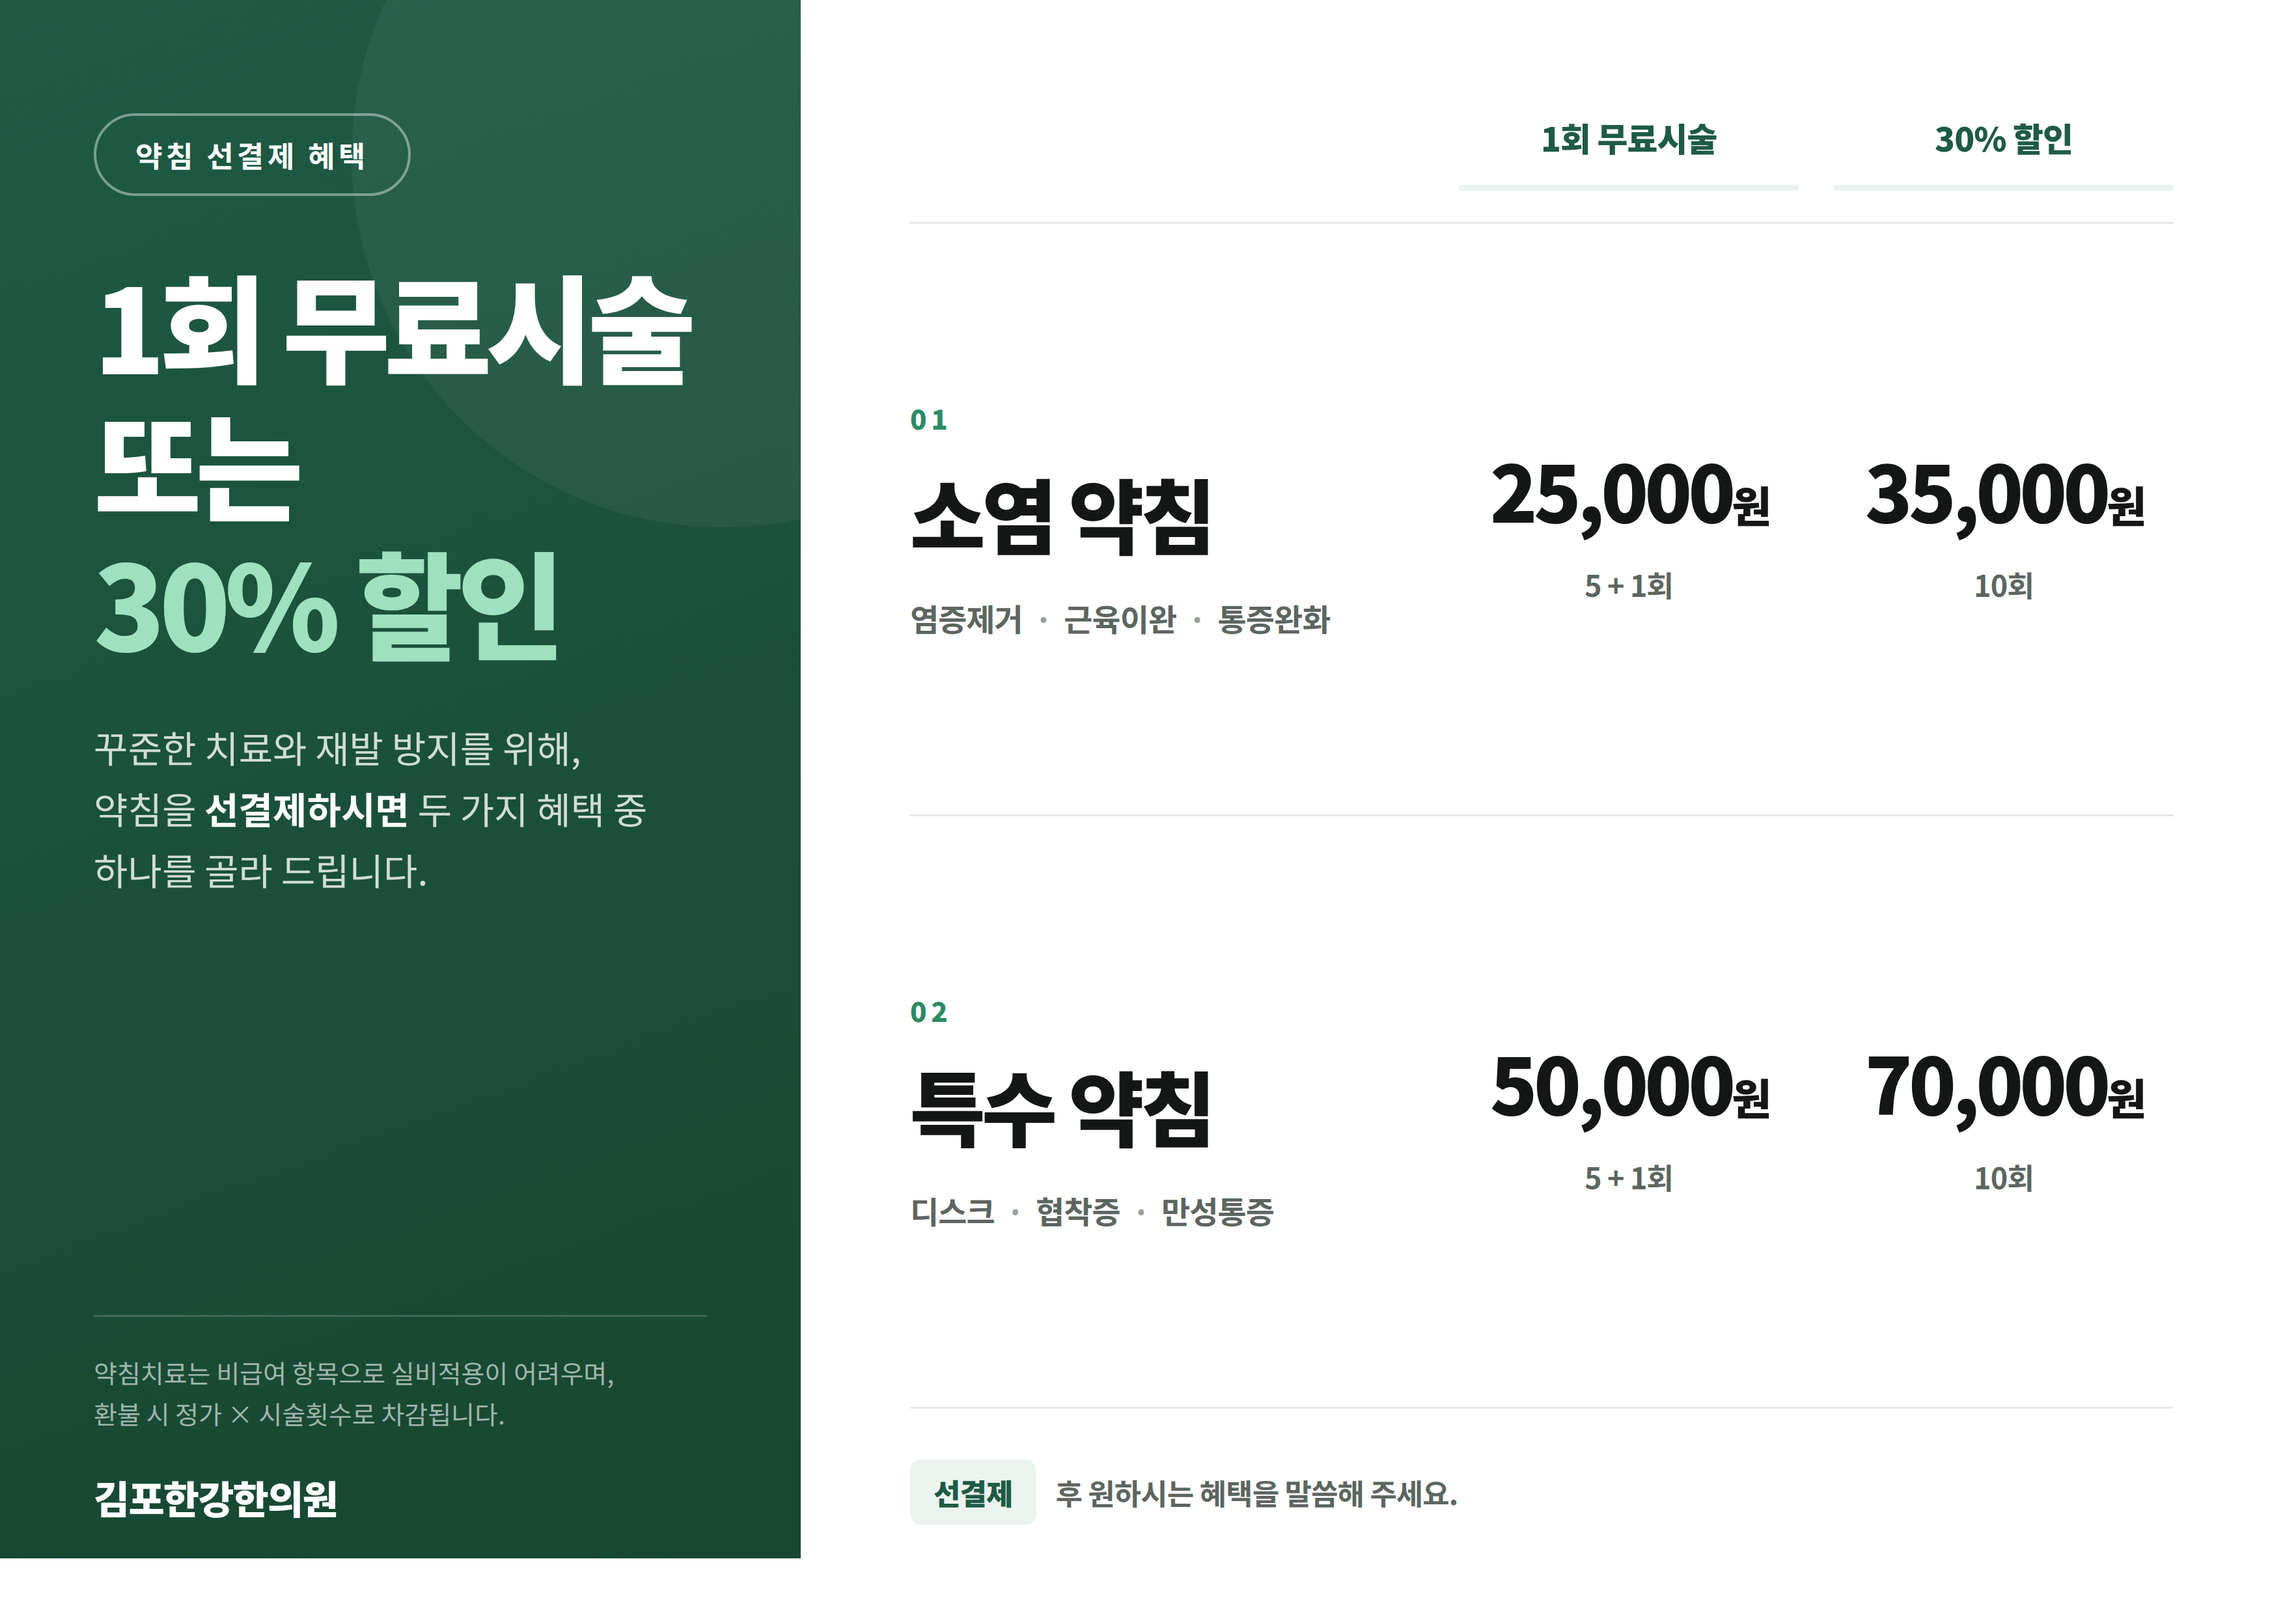
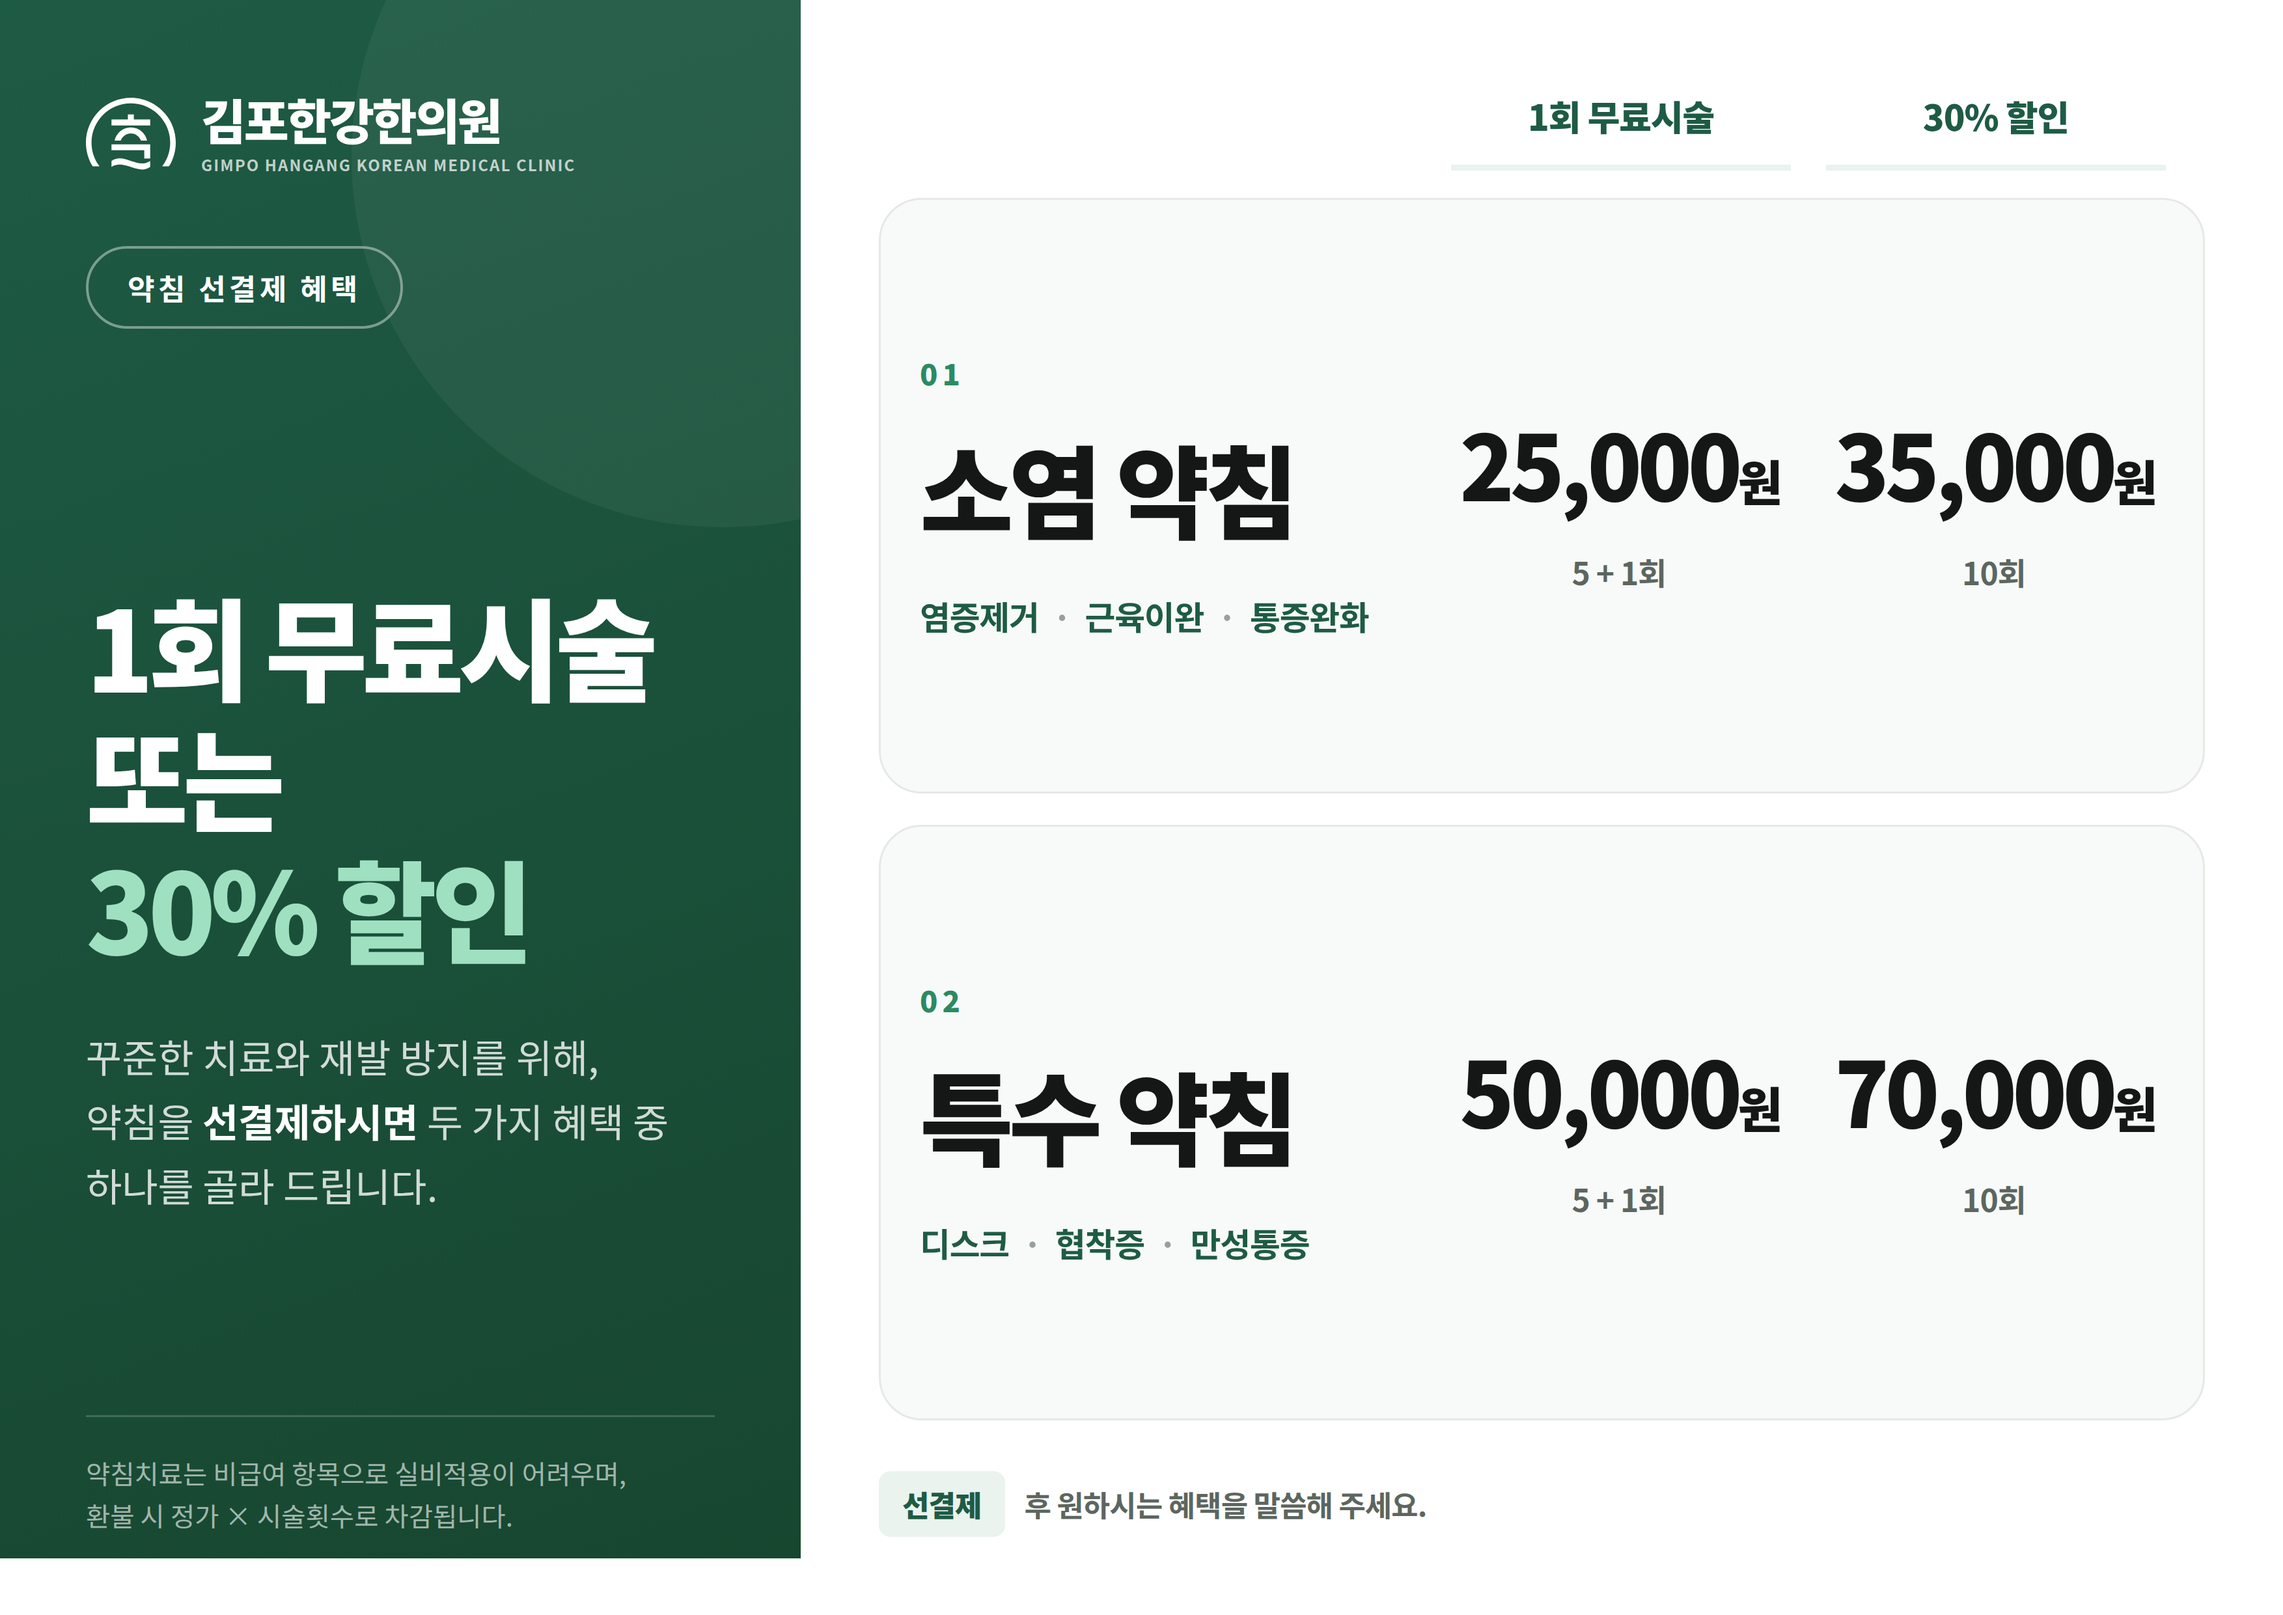
약침 안내 이미지에 로고 넣고 빈 자리 줄임
- 왼쪽 판 머리에 로고(심벌+병원명+영문). 심벌은 brand/mark.svg 벡터 그대로
- 아래에 있던 병원명 글자는 로고와 겹쳐 삭제
- 판 안 여백을 위·중간·아래로 나눠 한 곳에 몰리지 않게 함
- 오른쪽 표는 행을 면으로 깔고 글자를 키워 흰 여백을 메움

Claude-Session: https://claude.ai/code/session_017DGhBSAmjkVB1vRVfDZGb9

diff --git a/tools/poster/yakchim-event.html b/tools/poster/yakchim-event.html
@@ -32,8 +32,8 @@
   .panel {
     background: linear-gradient(160deg, var(--herb) 0%, var(--herb-deep) 100%);
     color: #fff;
-    padding: 58px 48px 46px;
-    display: flex; flex-direction: column;
+    padding: 46px 44px 40px;
+    display: flex; flex-direction: column; justify-content: space-between;
     position: relative; overflow: hidden;
   }
   .panel::before {
@@ -41,40 +41,45 @@
     width: 380px; height: 380px; border-radius: 50%;
     background: rgba(255, 255, 255, 0.05);
   }
+  .logo { position: relative; display: flex; align-items: center; gap: 13px; }
+  .logo .mk { width: 46px; height: 46px; flex: none; }
+  .logo .kr { font-size: 25px; font-weight: 900; letter-spacing: -0.045em; line-height: 1; }
+  .logo .en {
+    margin-top: 5px; font-size: 8px; font-weight: 700;
+    letter-spacing: 0.085em; color: rgba(255, 255, 255, 0.72); white-space: nowrap;
+  }
+
   .panel .badge {
-    align-self: flex-start; position: relative;
+    display: inline-block; position: relative; margin-top: 34px;
     border: 1.5px solid rgba(255, 255, 255, 0.42);
     border-radius: 999px; padding: 9px 20px;
     font-size: 15px; font-weight: 700; letter-spacing: 0.12em;
   }
   .panel h1 {
-    margin-top: 30px; position: relative;
-    font-size: 60px; font-weight: 900; line-height: 1.18; letter-spacing: -0.05em;
+    margin-top: 26px; position: relative;
+    font-size: 57px; font-weight: 900; line-height: 1.18; letter-spacing: -0.05em;
   }
   .panel h1 em { font-style: normal; color: #9fe0c1; }
   .panel .lead {
-    margin-top: 24px; position: relative;
-    font-size: 19px; font-weight: 400; line-height: 1.65; color: rgba(255, 255, 255, 0.8);
+    margin-top: 26px; position: relative;
+    font-size: 20px; font-weight: 400; line-height: 1.65; color: rgba(255, 255, 255, 0.8);
   }
   .panel .lead b { color: #fff; font-weight: 700; }
 
-  .panel .bottom { margin-top: auto; position: relative; }
+  .panel .top, .panel .mid, .panel .bottom { position: relative; }
   .panel .note {
-    font-size: 13px; line-height: 1.6; color: rgba(255, 255, 255, 0.6);
+    font-size: 13.5px; line-height: 1.6; color: rgba(255, 255, 255, 0.62);
     padding-top: 18px; border-top: 1px solid rgba(255, 255, 255, 0.18);
-  }
-  .panel .mark {
-    margin-top: 18px; font-size: 20px; font-weight: 900; letter-spacing: -0.03em;
   }
 
   /* ── 오른쪽 가격표 ─────────────────────────────────── */
-  .grid { padding: 58px 56px 46px; display: flex; flex-direction: column; }
+  .grid { padding: 46px 40px 40px; display: flex; flex-direction: column; }
   .colhead {
     display: grid; grid-template-columns: 1fr 174px 174px; gap: 18px;
-    align-items: end; padding-bottom: 16px;
+    align-items: end; padding: 0 20px 14px;
   }
   .colhead p {
-    text-align: center; font-size: 17px; font-weight: 900; letter-spacing: -0.02em;
+    text-align: center; font-size: 18px; font-weight: 900; letter-spacing: -0.02em;
     color: var(--herb); padding-bottom: 12px;
   }
   .colhead .a, .colhead .b { border-bottom: 3px solid var(--tint); }
@@ -83,20 +88,26 @@
     flex: 1;
     display: grid; grid-template-columns: 1fr 174px 174px; gap: 18px;
     align-items: center;
-    border-top: 1px solid var(--line);
+    padding: 0 20px;
+    background: #f7faf8;
+    border: 1px solid var(--line);
+    border-radius: 22px;
   }
-  .row:last-of-type { border-bottom: 1px solid var(--line); }
-  .no { font-size: 14px; font-weight: 900; letter-spacing: 0.16em; color: var(--herb-bright); }
-  .name { margin-top: 8px; font-size: 42px; font-weight: 900; letter-spacing: -0.045em; }
-  .tags { margin-top: 12px; font-size: 16px; font-weight: 700; color: var(--muted); letter-spacing: -0.02em; }
-  .tags i { font-style: normal; color: var(--faint); padding: 0 6px; }
+  .row + .row { margin-top: 16px; }
+  .no { font-size: 15px; font-weight: 900; letter-spacing: 0.16em; color: var(--herb-bright); }
+  .name { margin-top: 10px; font-size: 52px; font-weight: 900; letter-spacing: -0.045em; }
+  .tags {
+    margin-top: 16px; font-size: 17px; font-weight: 700;
+    color: var(--herb); letter-spacing: -0.025em; white-space: nowrap;
+  }
+  .tags span + span::before { content: "·"; color: var(--faint); padding: 0 7px; }
 
   .cell { text-align: center; }
-  .cell .amt { font-size: 40px; font-weight: 900; letter-spacing: -0.05em; white-space: nowrap; }
-  .cell .amt i { font-style: normal; font-size: 22px; }
-  .cell .cnt {
-    margin-top: 9px; display: inline-block;
-    font-size: 15px; font-weight: 700; color: var(--muted); letter-spacing: -0.02em;
+  .cell .amt { font-size: 46px; font-weight: 900; letter-spacing: -0.05em; white-space: nowrap; }
+  .cell .amt i { font-style: normal; font-size: 25px; }
+    .cell .cnt {
+    margin-top: 11px; display: inline-block;
+    font-size: 16px; font-weight: 700; color: var(--muted); letter-spacing: -0.02em;
   }
 
   .tail {
@@ -111,12 +122,21 @@
 </style>
 
 <aside class="panel">
+  <div class="top">
+  <div class="logo">
+    <svg class="mk" viewBox="0 0 100 100" fill="currentColor" fill-rule="evenodd" aria-hidden="true"><path d="M50.0 8.81C22.43 8.81 0.0 31.24 0.0 58.81C0.0 68.5 2.78 77.55 7.57 85.22L15.17 85.22C9.58 77.87 6.22 68.74 6.22 58.81C6.22 34.67 25.86 15.03 50.0 15.03C74.14 15.03 93.78 34.67 93.78 58.81C93.78 68.74 90.42 77.87 84.83 85.22L92.43 85.22C97.22 77.55 100.0 68.5 100.0 58.81C100.0 31.24 77.57 8.81 50.0 8.81Z"/><path d="M46.69 27.42L46.69 32.98L28.45 32.98L28.45 39.6L71.55 39.6L71.55 32.98L53.31 32.98L53.31 27.42L46.69 27.42Z"/><path d="M31.92 56.58L38.78 56.58C40.38 51.92 44.8 48.55 50.0 48.55C55.2 48.55 59.62 51.92 61.22 56.58L68.08 56.58C66.31 48.22 58.88 41.93 50.0 41.93C41.12 41.93 33.69 48.22 31.92 56.58Z"/><path d="M28.45 67.25L64.93 67.25L64.93 76.51L71.55 76.51L71.55 60.63L28.45 60.63L28.45 67.25Z"/><path d="M28.45 79.12L28.45 85.22L28.45 85.88C28.8 85.64 29.16 85.43 29.52 85.22C35.69 81.64 41.87 83.18 48.04 85.22C55.88 87.81 63.71 91.19 71.55 85.88L71.55 85.22L71.55 79.12C57.18 88.85 42.82 69.38 28.45 79.12Z"/></svg>
+    <div><p class="kr">김포한강한의원</p><p class="en">GIMPO HANGANG KOREAN MEDICAL CLINIC</p></div>
+  </div>
   <p class="badge">약침 선결제 혜택</p>
+  </div>
+
+  <div class="mid">
   <h1>1회 무료시술<br>또는<br><em>30% 할인</em></h1>
   <p class="lead">꾸준한 치료와 재발 방지를 위해,<br>약침을 <b>선결제하시면</b> 두 가지 혜택 중<br>하나를 골라 드립니다.</p>
+  </div>
+
   <div class="bottom">
     <p class="note">약침치료는 비급여 항목으로 실비적용이 어려우며,<br>환불 시 정가 × 시술횟수로 차감됩니다.</p>
-    <p class="mark">김포한강한의원</p>
   </div>
 </aside>
 
@@ -131,7 +151,7 @@
     <div>
       <p class="no">01</p>
       <h2 class="name">소염 약침</h2>
-      <p class="tags">염증제거<i>·</i>근육이완<i>·</i>통증완화</p>
+      <p class="tags"><span>염증제거</span><span>근육이완</span><span>통증완화</span></p>
     </div>
     <div class="cell"><p class="amt">25,000<i>원</i></p><p class="cnt">5 + 1회</p></div>
     <div class="cell"><p class="amt">35,000<i>원</i></p><p class="cnt">10회</p></div>
@@ -141,7 +161,7 @@
     <div>
       <p class="no">02</p>
       <h2 class="name">특수 약침</h2>
-      <p class="tags">디스크<i>·</i>협착증<i>·</i>만성통증</p>
+      <p class="tags"><span>디스크</span><span>협착증</span><span>만성통증</span></p>
     </div>
     <div class="cell"><p class="amt">50,000<i>원</i></p><p class="cnt">5 + 1회</p></div>
     <div class="cell"><p class="amt">70,000<i>원</i></p><p class="cnt">10회</p></div>

diff --git a/tools/poster/README.md b/tools/poster/README.md
@@ -21,6 +21,18 @@
 다른 해상도가 필요하면 `zoom` 과 `--window-size` 를 같은 배수로 함께 바꾼다.
 `zoom: 2` + `--window-size=2338,1654` 면 200dpi다.
 
+## 로고
+
+왼쪽 판의 로고는 심벌 + 「김포한강한의원」 + 영문 한 줄로 짠 것이다.
+심벌 경로는 `brand/mark.svg` 의 벡터를 그대로 붙였다 — **눈으로 다시 그리지 말 것.**
+원본을 다시 뽑는 방법은 `brand/README.md` 에 있다.
+
+글자 부분은 원본 로고의 레터링이 아니라 Noto Sans KR 900 으로 짠 것이다.
+정확한 워드마크가 필요하면 `brand/logo.ai` 에서 글자 벡터를 따로 뽑아 넣어야 한다.
+
+색은 옥색 판 위라 흰색으로 뒤집었다. 원본 청록(`#0A777E`)은 쓰지 않는다 —
+홈페이지가 `#1E5B45` 로 짜여 있어 두 초록이 부딪힌다(`brand/README.md`).
+
 ## 글꼴
 
 전부 고딕(Noto Sans KR)이다. 명조는 쓰지 않는다 — 한의원 안내물이 옛날 느낌으로 읽히기 쉬워서다.
